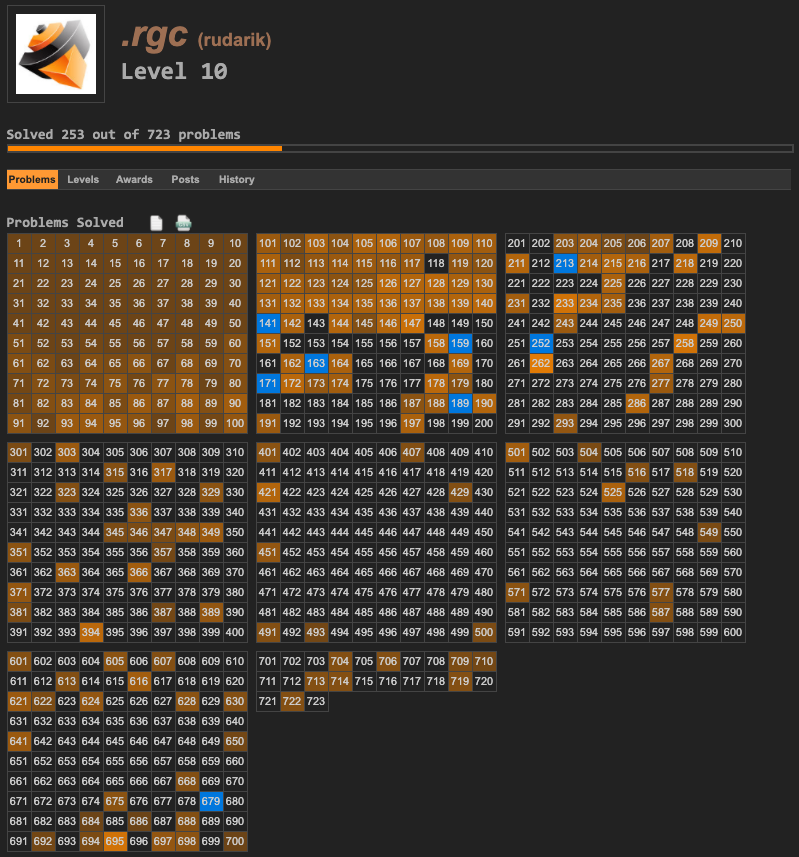
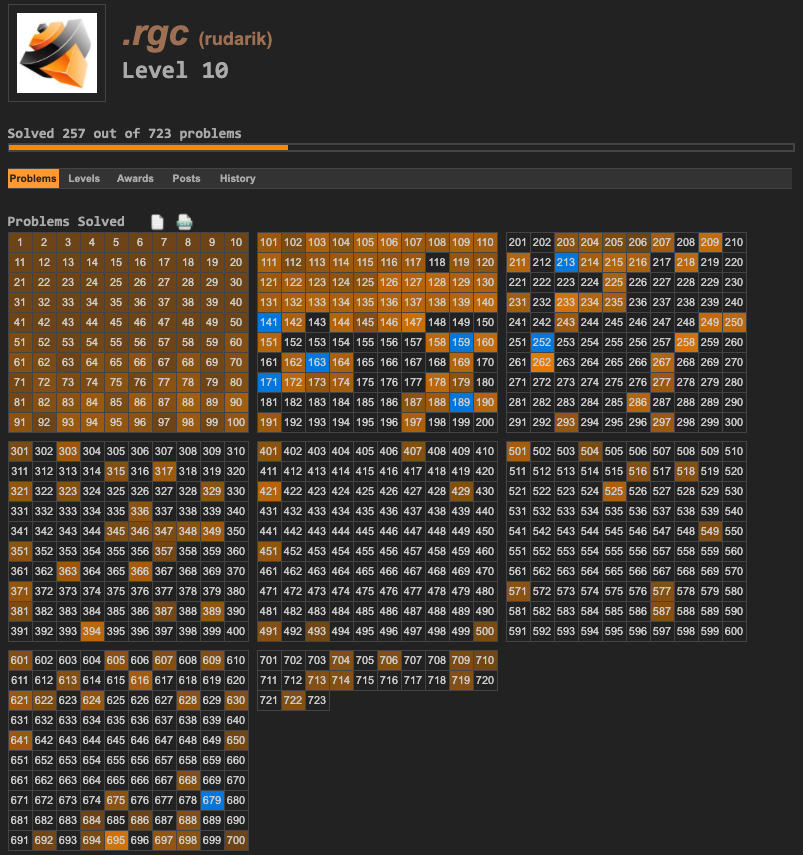
Solved 609, 160 and 297

diff --git a/README.md b/README.md
@@ -115,7 +115,7 @@ Problem 675: "2^w(n)"
 Problem 709: "Even Stevens"
 
 * [Zeckendorf's Theorem](https://en.wikipedia.org/wiki/Zeckendorf%27s_theorem)
-Problem 366: "Stone Game III"
+Problem 297: "Zeckendorf Representation", Problem 366: "Stone Game III"
 
 * [Turan graph](https://en.wikipedia.org/wiki/Tur%C3%A1n_graph)
 Problem 713: "Turan's water heating system"
@@ -143,9 +143,16 @@ Problem 146: "Investigating a Prime Pattern"
 * [Bernoulli Trial](https://en.wikipedia.org/wiki/Bernoulli_trial)
 Problem 267: "Billionaire"
 
+* [Trailing Zero](https://en.wikipedia.org/wiki/Trailing_zero)
+Problem 160: "Factorial trailing digits"
+
+* [Prime-Counting Function](https://en.wikipedia.org/wiki/Prime-counting_function)
+Problem 609: "Pi sequences"
+
 * [Berlekamp-Massey Algorithm](https://en.wikipedia.org/wiki/Berlekamp%E2%80%93Massey_algorithm)
 
 * [Pell's Equation](https://en.wikipedia.org/wiki/Pell%27s_equation)
+Problem 321: "Swapping Counters"
 
 * [Mobius Function](https://en.wikipedia.org/wiki/M%C3%B6bius_function)
 
